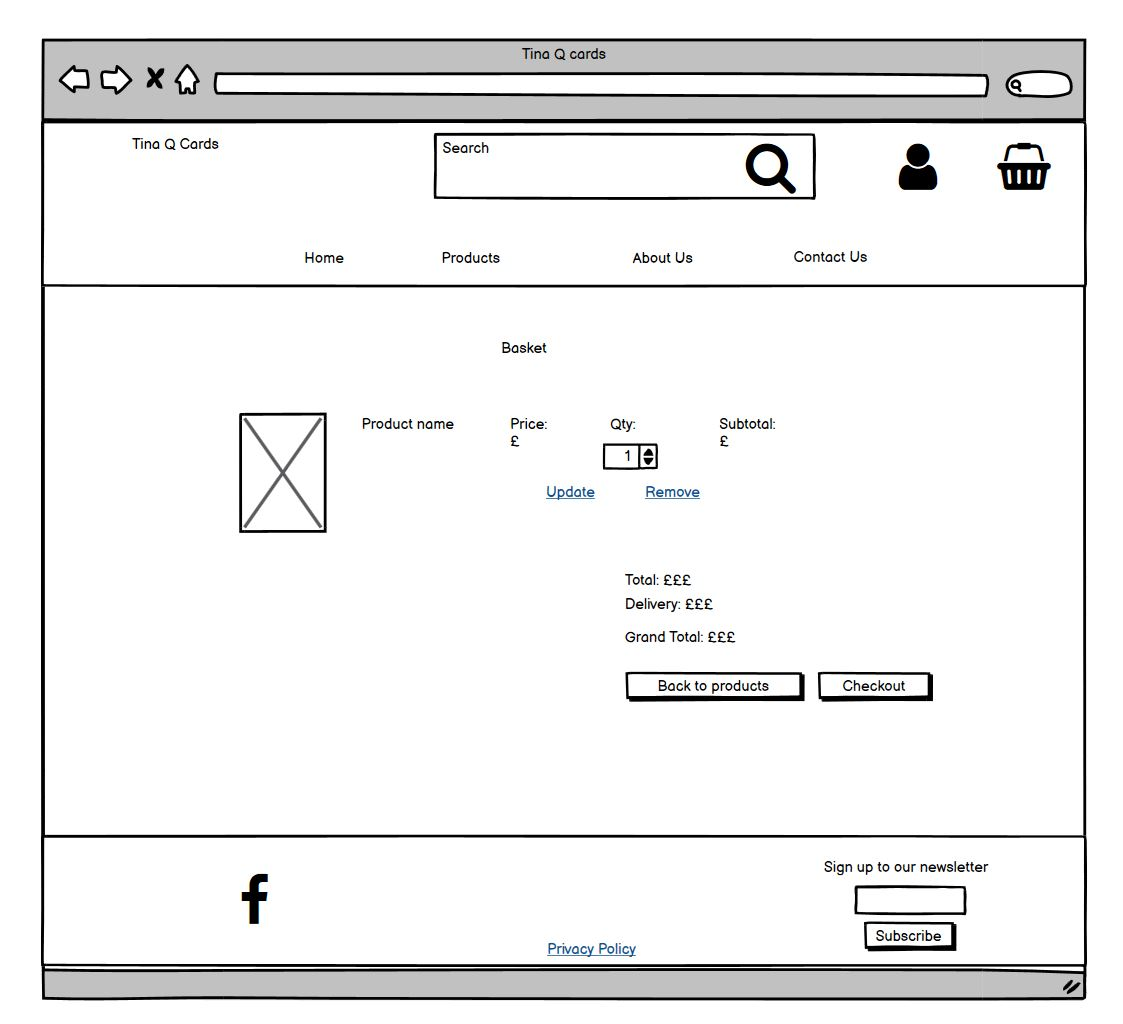
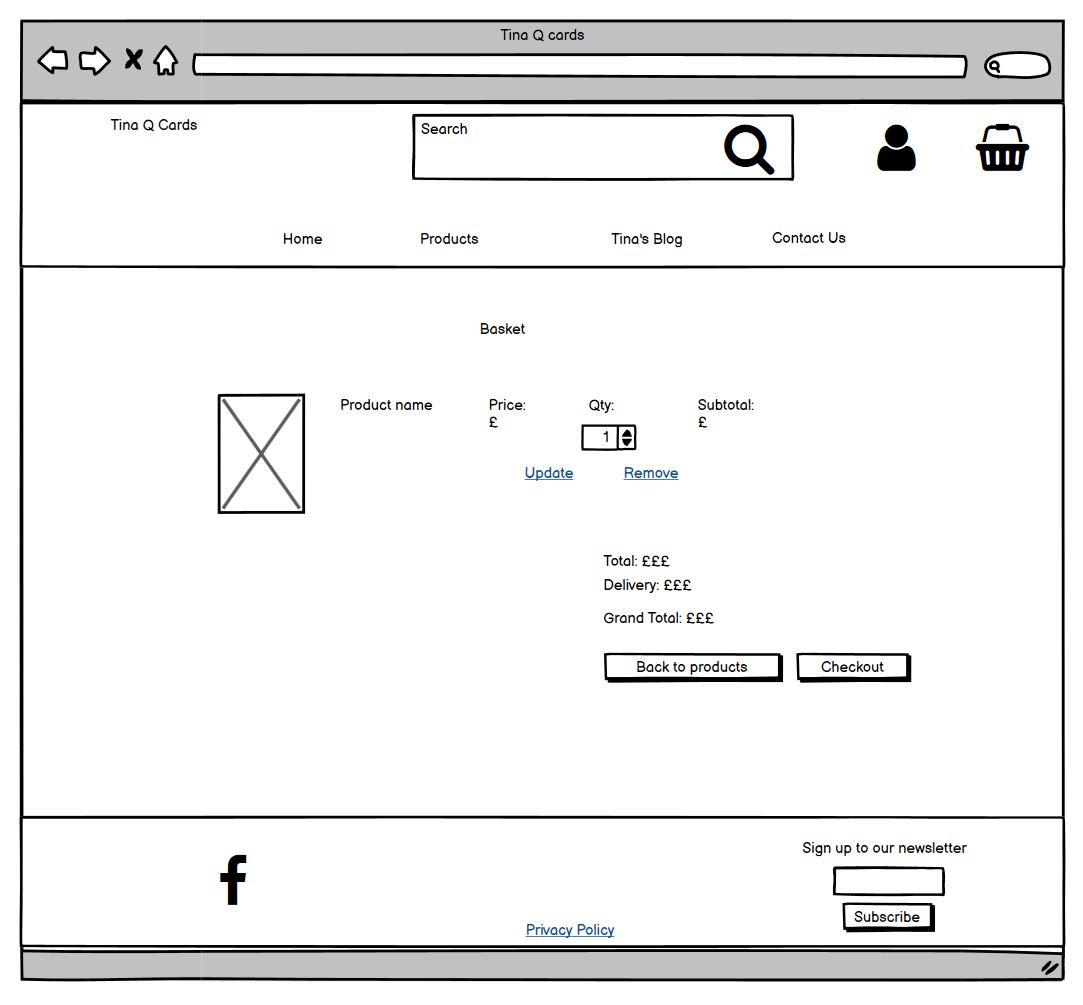
Update About, Schema, Wireframes in README

diff --git a/home/templates/home/index.html b/home/templates/home/index.html
@@ -11,8 +11,7 @@
 {% block content %}
 <div class="container h-100">
     <div class="row h-100">
-        <div class="col-12 my-auto text-center">
-            <!-- Adjusted homepage to render the welcome text directly instead of pulling from WelcomeMessage model, as discussed with mentor -->
+        <div class="col-12 my-auto text-center">            
             <h2 class="logo-font text-black">Welcome to Tina Q Cards!</h2>
             <p class="mt-5">Please have a look through my selection of greeting cards. If you don't see quite what
                 you're looking for, drop me a message via my Facebook page or the Contact Us section. All UK orders

diff --git a/README.md b/README.md
@@ -1,6 +1,6 @@
 # Tina Q Cards
 
-Tina Q Cards is a website selling bespoke handmade greeting cards for occasions such as birthdays, anniversaries, get well soon and so on. Users are able to browse the selection of cards and purchase any they like the look of. They can also send a message requesting cards to be made to requirements. Users will be able to look at previous orders and update their delivery details if they register an account. 
+Tina Q Cards is a website selling bespoke handmade greeting cards for occasions such as birthdays, anniversaries, get well soon and so on. Users are able to browse the selection of cards and purchase any they like the look of. They can also send a message requesting cards to be made to requirements. Users will be able to look at previous orders and update their delivery details if they register an account. Admin users can add, edit and delete products. Non-admin users are also able to add, edit and delete replies to the blog posts (they can only edit and delete replies that belong to them).
 
 ![Image of application pages on different screen sizes](https://raw.githubusercontent.com/domsq/tina-q-cards/master/screenshots/am_i_responsive.JPG)<br>
 
@@ -32,8 +32,9 @@ The schema overview for my application is as below:
 
 As seen above, the Category table has a one-to-many link with Product as one category can contain many products.
 The Order table has a one-to-many link with OrderLineItem, as one order can contain many line items. There is also a one-to-many link between Product and OrderLineItem as the same product can appear in many line items on different orders.<br><br>
-There is a one-to-many relationship between UserProfile and Order as one user can have many orders associated with them. The UserProfile table also has a one-to-one link with the built-in Django User model (shown here for demonstration purposes) as each user can have only one profile linked to them.
-The ContactUs, WelcomeMessage and BlogPost tables are standalone with no links to any other tables. 
+There is a one-to-many relationship between UserProfile and Order as one user can have many orders associated with them. The UserProfile table also has a one-to-one link with the built-in Django User model (shown here for demonstration purposes) as each user can have only one profile linked to them. The BlogPost table has a one-to-many relationship with Reply, which allows for multiple replies to a particular blog post. There is also a one-to-many relationship between the User model and the Reply table as one user may have many replies.<br><br>
+
+The ContactUs table is standalone with no links to any other tables.<br><br>
 
 The details for each model are as follows:
 
@@ -41,6 +42,9 @@ The details for each model are as follows:
 
 - BlogPost<br>
 ![Image of blogpost model](https://raw.githubusercontent.com/domsq/tina-q-cards/master/screenshots/blogpost_model.JPG)
+
+- Reply<br>
+![Image of reply model](https://raw.githubusercontent.com/domsq/tina-q-cards/master/screenshots/reply_model.JPG)
 
 #### Checkout app
 
@@ -54,11 +58,6 @@ The details for each model are as follows:
 
 - ContactUs<br>
 ![Image of contactus model](https://raw.githubusercontent.com/domsq/tina-q-cards/master/screenshots/contactus_model.JPG)
-
-#### Home app
-
-- WelcomeMessage<br>
-![Image of welcomemessage model](https://raw.githubusercontent.com/domsq/tina-q-cards/master/screenshots/welcomemessage_model.JPG)
 
 #### Products app
 
@@ -123,10 +122,16 @@ Checkout confirmation page:<br>
 ![Wireframe of mobile checkout confirmation page](https://raw.githubusercontent.com/domsq/tina-q-cards/master/screenshots/wireframe_mobile_checkout_confirm.JPG)<br>
 User profile page:<br>
 ![Wireframe of mobile user profile page](https://raw.githubusercontent.com/domsq/tina-q-cards/master/screenshots/wireframe_mobile_profile.JPG)<br>
-About us page:<br>
-![Wireframe of mobile about us page](https://raw.githubusercontent.com/domsq/tina-q-cards/master/screenshots/wireframe_mobile_about.JPG)<br>
+Blog overview page:<br>
+![Wireframe of mobile blog overview page](https://raw.githubusercontent.com/domsq/tina-q-cards/master/screenshots/wireframe_mobile_blog_overview.JPG)<br>
+Blog detail page:<br>
+![Wireframe of mobile blog detail page](https://raw.githubusercontent.com/domsq/tina-q-cards/master/screenshots/wireframe_mobile_blog_detail.JPG)<br>
 Contact us page:<br>
 ![Wireframe of mobile contact us page](https://raw.githubusercontent.com/domsq/tina-q-cards/master/screenshots/wireframe_mobile_contact.JPG)<br>
+Add product page:<br>
+![Wireframe of mobile add product page](https://raw.githubusercontent.com/domsq/tina-q-cards/master/screenshots/wireframe_mobile_add_product.JPG)<br>
+Edit product page:<br>
+![Wireframe of mobile edit product page](https://raw.githubusercontent.com/domsq/tina-q-cards/master/screenshots/wireframe_mobile_edit_product.JPG)<br>
 404 page:<br>
 ![Wireframe of mobile 404 page](https://raw.githubusercontent.com/domsq/tina-q-cards/master/screenshots/wireframe_mobile_404.JPG)<br>
 
@@ -148,10 +153,16 @@ Checkout confirmation page:<br>
 ![Wireframe of tablet checkout confirmation page](https://raw.githubusercontent.com/domsq/tina-q-cards/master/screenshots/wireframe_tablet_checkout_confirm.JPG)<br>
 User profile page:<br>
 ![Wireframe of tablet user profile page](https://raw.githubusercontent.com/domsq/tina-q-cards/master/screenshots/wireframe_tablet_profile.JPG)<br>
-About us page:<br>
-![Wireframe of tablet about us page](https://raw.githubusercontent.com/domsq/tina-q-cards/master/screenshots/wireframe_tablet_about.JPG)<br>
+Blog overview page:<br>
+![Wireframe of tablet blog overview page](https://raw.githubusercontent.com/domsq/tina-q-cards/master/screenshots/wireframe_tablet_blog_overview.JPG)<br>
+Blog detail page:<br>
+![Wireframe of tablet blog detail page](https://raw.githubusercontent.com/domsq/tina-q-cards/master/screenshots/wireframe_tablet_blog_detail.JPG)<br>
 Contact us page:<br>
 ![Wireframe of tablet contact us page](https://raw.githubusercontent.com/domsq/tina-q-cards/master/screenshots/wireframe_tablet_contact.JPG)<br>
+Add product page:<br>
+![Wireframe of tablet add product page](https://raw.githubusercontent.com/domsq/tina-q-cards/master/screenshots/wireframe_tablet_add_product.JPG)<br>
+Edit product page:<br>
+![Wireframe of tablet edit product page](https://raw.githubusercontent.com/domsq/tina-q-cards/master/screenshots/wireframe_tablet_edit_product.JPG)<br>
 404 page:<br>
 ![Wireframe of tablet 404 page](https://raw.githubusercontent.com/domsq/tina-q-cards/master/screenshots/wireframe_tablet_404.JPG)<br>
 
@@ -171,10 +182,16 @@ Checkout confirmation page:<br>
 ![Wireframe of desktop checkout confirmation page](https://raw.githubusercontent.com/domsq/tina-q-cards/master/screenshots/wireframe_desktop_checkout_confirm.JPG)<br>
 User profile page:<br>
 ![Wireframe of desktop user profile page](https://raw.githubusercontent.com/domsq/tina-q-cards/master/screenshots/wireframe_desktop_profile.JPG)<br>
-About us page:<br>
-![Wireframe of desktop about us page](https://raw.githubusercontent.com/domsq/tina-q-cards/master/screenshots/wireframe_desktop_about.JPG)<br>
+Blog overview page:<br>
+![Wireframe of desktop blog overview page](https://raw.githubusercontent.com/domsq/tina-q-cards/master/screenshots/wireframe_desktop_blog_overview.JPG)<br>
+Blog detail page:<br>
+![Wireframe of desktop blog detail page](https://raw.githubusercontent.com/domsq/tina-q-cards/master/screenshots/wireframe_desktop_blog_detail.JPG)<br>
 Contact us page:<br>
 ![Wireframe of desktop contact us page](https://raw.githubusercontent.com/domsq/tina-q-cards/master/screenshots/wireframe_desktop_contact.JPG)<br>
+Add product page:<br>
+![Wireframe of desktop add product page](https://raw.githubusercontent.com/domsq/tina-q-cards/master/screenshots/wireframe_desktop_add_product.JPG)<br>
+Edit product page:<br>
+![Wireframe of desktop edit product page](https://raw.githubusercontent.com/domsq/tina-q-cards/master/screenshots/wireframe_desktop_edit_product.JPG)<br>
 404 page:<br>
 ![Wireframe of desktop 404 page](https://raw.githubusercontent.com/domsq/tina-q-cards/master/screenshots/wireframe_desktop_404.JPG)<br>
 
